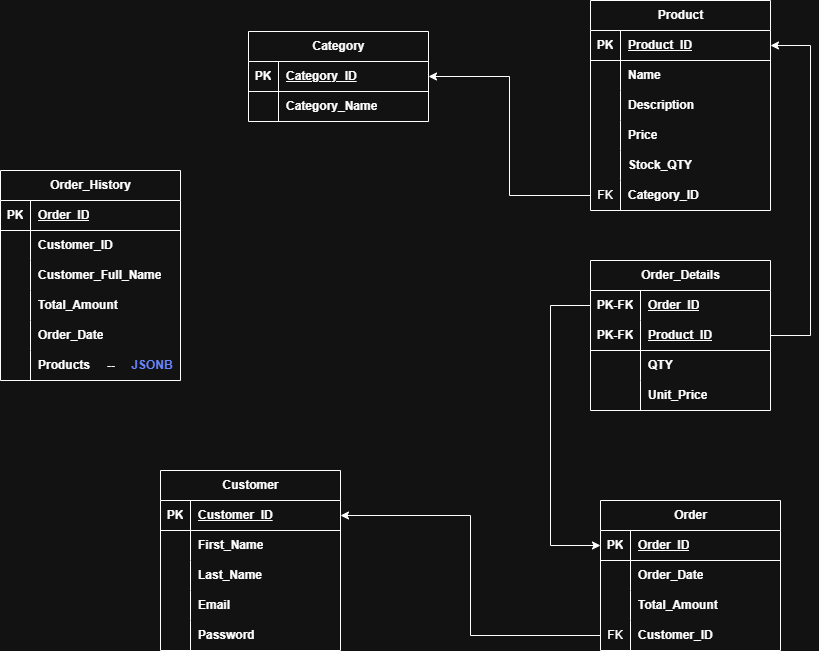
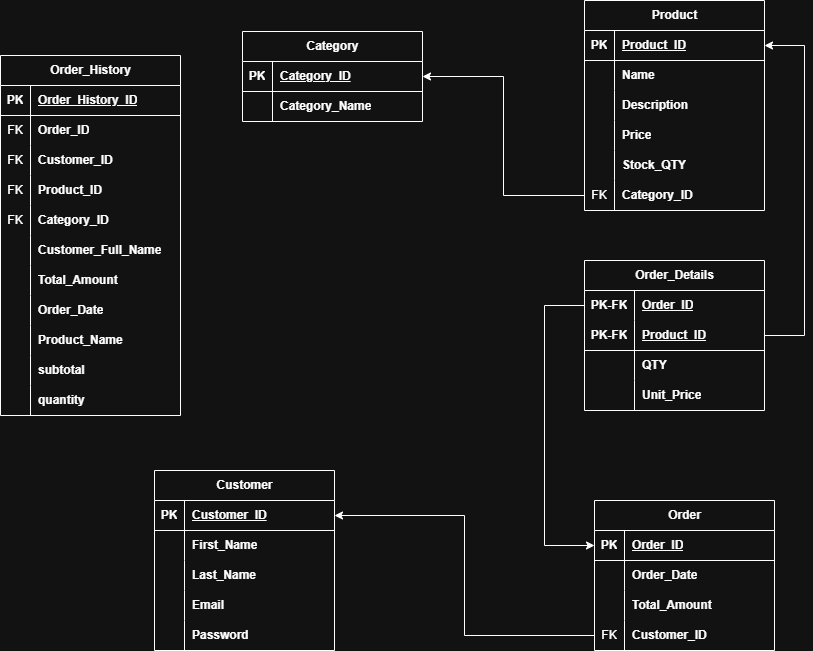
Updated: Relational Schema and optimized few queries

diff --git a/README.md b/README.md
@@ -81,7 +81,7 @@ While the design follows standard relational modeling practices, a small amount 
 
 ### Explanation:
 
-- The **Order_History** table stores customer names ,total amounts, products informations and their subtotal directly, even though this data also exists in other tables.  
+- The **Order_History** table stores customer names ,total amounts, product informations and subtotal, even though this data also exists in other tables.  
   This avoids expensive joins when generating historical order summaries, this might slower the creating new order process but it could be fixed with a **background task** or **batch task** that runs once or twice a week to avoid this problem.
 - Product pricing at the moment of purchase is copied into **Order_Details (Unit_Price)** to preserve price history, even if the product price changes later.
 
@@ -93,7 +93,7 @@ These denormalizations are chosen on purpose for practical advantages in analyti
 
 ```sql
 
-CREATE DATABASE E_Commerce
+-- CREATE DATABASE E_Commerce
 
 CREATE TABLE IF NOT EXISTS Category(
 Category_ID INT PRIMARY KEY,
@@ -138,12 +138,21 @@ FOREIGN KEY (Product_ID) REFERENCES Product(Product_ID)
 );
 
 CREATE TABLE IF NOT EXISTS Order_History(
-Order_ID INT PRIMARY KEY,
+order_history_id  SERIAL  PRIMARY KEY,
+Order_ID INT NOT NULL,
+product_id INT NOT NULL,
 Customer_ID INT NOT NULL,
+category_id int NOT NULL ,
 Customer_Full_Name VARCHAR(40) NOT NULL,
 Total_Amount DECIMAL(9,2) NOT NULL CHECK(Total_Amount > 0),
 Order_Date TIMESTAMP NOT NULL,
-Products JSONB
+product_name VARCHAR(30) NOT NULL,
+subtotal DECIMAL(8,2) NOT NULL CHECK(subtotal > 0),
+quantity INT NOT NULL CHECK(quantity > 0),
+FOREIGN KEY (Order_id) REFERENCES orders(order_id),
+FOREIGN KEY (product_id) REFERENCES product(product_id),
+FOREIGN KEY (customer_id) REFERENCES customer(customer_id),
+FOREIGN KEY (category_id) REFERENCES category(category_id)
 )
 ```
 
@@ -170,7 +179,7 @@ All test data respects database constraints:
 ```sql
 SELECT DATE(order_date) AS month,SUM(total_amount) revenue FROM orders
 GROUP BY month
-HAVING DATE(order_date) = date;
+HAVING DATE(order_date) = <date>;
 ```
 
 ### Smaple Output
@@ -184,16 +193,15 @@ HAVING DATE(order_date) = date;
 ## SQL query to generate a monthly report of the top-selling products in a given month.
 
 ```sql
-SELECT DATE_PART('MONTH', O.order_date) AS month, P.Name, SUM(OD.qty) AS quantity, SUM(OD.unit_price) AS revenue FROM product P
- JOIN order_details OD ON OD.product_id = P.product_id
- JOIN orders O ON OD.order_id = O.order_ID
- GROUP BY name,month
- HAVING DATE_PART('MONTH', O.order_date) = '10'
+ SELECT  DATE_PART('MONTH', order_date) AS month, product_id, product_name,
+ SUM(quantity) AS quantity, SUM(subtotal) AS revenue FROM order_history
+ GROUP BY MONTH, product_id, product_name
+ HAVING DATE_PART('MONTH', order_date)=<MONTH>
  ORDER BY revenue DESC
  LIMIT 10;
 ```
 
-### Smaple Output
+### Smaple Output for October
 
 | Month | Name                | Quantity | Revenue |
 | ----- | ------------------- | -------- | ------- |
@@ -261,18 +269,14 @@ WHERE name ILIKE '%' || keyword || '%'
 
 ---
 
-## Query to suggest popular products in the same category, excluding the Purchsed products by the current customer from the recommendations.
+## Query to suggest popular products in the same category, excluding the Purchased products by the current customer from the recommendations.
 
 ```SQL
-SELECT p.product_id, p.name, p.description, p.category_id
-FROM product p
-WHERE p.category_id = categoryID AND
-NOT EXISTS (
-      SELECT 1
-      FROM orders o
-      JOIN order_details od ON od.order_id = o.order_id
-      WHERE o.customer_id = CustomerId and od.product_id = p.product_id
-  );
+SELECT product_id, name, description, category_id FROM product
+WHERE product_id NOT IN
+(SELECT Product_ID FROM order_history WHERE customer_id = <customer_id>)
+AND category_id IN
+(SELECT category_id FROM order_history WHERE customer_id = <cusotmer_ID>)
 ```
 
 ## **Contact**
